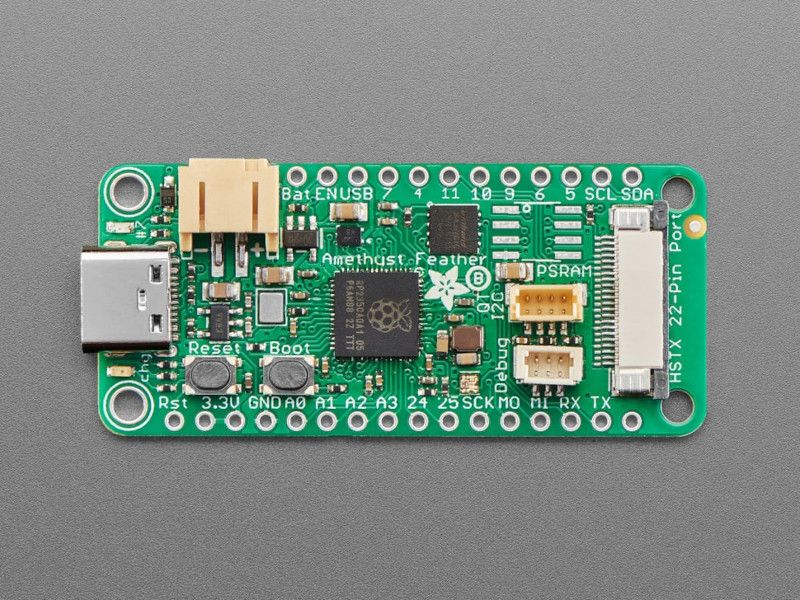
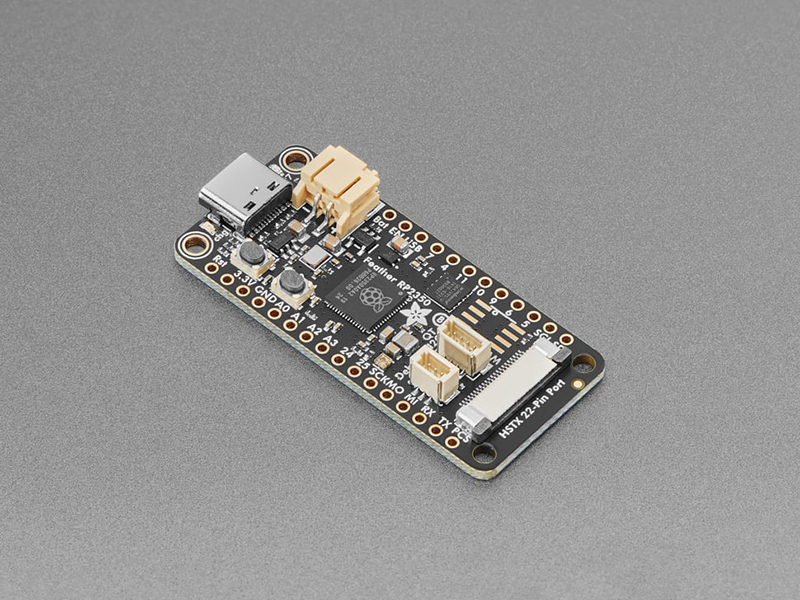
updating feather rp2350
updating feather rp2350 with full product copy and shop image

diff --git a/_board/adafruit_feather_rp2350.md b/_board/adafruit_feather_rp2350.md
@@ -19,6 +19,64 @@ features:
 
 ---
 
-RP2350 flies high with the Feather format - now you can use any FeatherWings with this battery-powered dev board. It comes with 8MB of flash, 22pin HSTX output port, Stemma QT, debug SWD, and optional PSRAM spot.
+RP2350 flies high with the Feather format - now you can use any FeatherWings with this battery-powered dev board. It comes with 8MB of flash, 22pin HSTX output port, Stemma QT, debug SWD, and optional PSRAM spot. It's our first RP2350 board and we crammed a ton of goodies into our classic Feather format. It's an excellent starter board to go along with your Pico 2.
 
-(more soooon!)
+The RP2350 is Raspberry Pi's second microcontroller chip following their breakout-hit the RP2040. Building on their success, the RP2350 upgrades the dual M0 core to dual M33 cores with 150 MHz clock rate. The M33 is a much newer Arm chipset, we've found that firmware runs about twice as fast. Especially given that we now have hardware floating point support. Also, the RP2350 has twice as much SRAM: 520KB instead of 264KB which means that micropython/circuitpython runs great and also IoT projects that need a lot of memory buffer space will run better. Other improvements include, 3 PIO blocks instead of 2, TrustZone secure boot, and a special High Speed Transmit (HSTX) peripheral that drives 4 lanes of differential data transmission such as DVI output without needing to overclock or use PIO.
+
+For peripherals, there are two I2C controllers, two SPI controllers, and two UARTs that are multiplexed across the GPIO - check the pinout for what pins can be set to which. There are 24 PWM channels, each pin has a channel it can be set to (ditto on the pinout).
+
+Feather RP2350 HSTX Specifications:
+
+* Measures 2.0" x 0.9" x 0.28" (50.8mm x 22.8mm x 7mm) without headers soldered in
+* Light as a (large?) feather - 5 grams
+* RP2350 32-bit Cortex M33 dual core running at 150 MHz @ 3.3V logic and power
+* 520 KB RAM + 8 KB OTP memory
+* 8 MB SPI FLASH chip for storing files and CircuitPython/MicroPython code storage. No EEPROM
+* Optional spot for SOIC PSRAM chip with chip select line on GPIO 8
+* Tons of GPIO! 29 x GPIO pins with following capabilities:
+	* 21 GPIO available on the Feather header pins, 8 more 'consecutive' GPIO available on the HSTX connector (you don't have to use them with the HSTX peripheral) 
+	* Four 12-bit ADCs (one more than Pico 2)
+	* Two I2C, Two SPI, and two UART peripherals, we label one for the 'main' interface in standard Feather locations
+	* 24 x PWM outputs - for servos, LEDs, etc
+* Built-in 200mA+ lipoly charger with charging status indicator LED. For non-rechargeable battery usage the charger can be disabled by cutting a jumper trace on the back.
+* Pin #7 red LED for general purpose blinking
+* RGB NeoPixel for full-color indication.
+* On-board STEMMA QT connector that lets you quickly connect any Qwiic, STEMMA QT or Grove I2C devices with no soldering!
+* Both Reset button and Bootloader select button for quick restarts (no unplugging-replugging to relaunch code)
+* 3.3V Power/enable pin
+* Pico Probe 3-pin JST SH connector for SWD debugging
+* 4 mounting holes
+* 12 MHz crystal for perfect timing.
+* 3.3V regulator with 500mA peak current output
+* USB Type C connector lets you access built-in ROM USB bootloader and serial port debugging
+
+Inside the RP2350 is a 'permanent ROM' USB UF2 bootloader. What that means is when you want to program new firmware, you can hold down the BOOTSEL button while plugging it into USB (or pulling down the RUN/Reset pin to ground) and it will appear as a USB disk drive you can drag the firmware onto. Folks who have been using Adafruit products will find this very familiar - we use the technique on all our native-USB boards. Just note you don't double-click reset instead hold down BOOTSEL during boot to enter the bootloader!
+
+There is great C/C++ support, unofficial (but really good) Arduino support, an official MicroPython port, and a CircuitPython port! We of course recommend CircuitPython because we think it's the easiest way to get started and it has support with most of our drivers, displays, sensors, and more, supported out of the box so you can follow along with our CircuitPython projects and tutorials.
+
+While the RP2350 has lots of onboard RAM, it does not have built-in FLASH memory. Instead, that is provided by the external QSPI flash chip. On this board there is 8 MB, which is shared between the program it's running and any file storage used by MicroPython or CircuitPython. When using C/C++ you get the whole flash memory, if using Python you will have about 7 MB remaining for code, files, images, fonts, etc.
+
+RP2350 Chip features:
+
+* Dual ARM Cortex-M33 with floating point unit or Dual RISC-V @ 150MHz
+* 520 kB on-chip SRAM
+* 8 kB of one-time-programmable (OTP) memory.
+* Support for up to 16MB of off-chip Flash memory via dedicated QSPI bus
+* Support for external QSPI PSRAM
+* DMA controller, 16 channel, 4 IRQ
+* Fully-connected AHB crossbar
+* On-chip switched-mode power supply and programmable low-dropout regulator (LDO) to generate core voltage
+* Two on-chip PLLs to generate 48 MHz USB and 150MHz core clocks
+* Optional boot signing with protected OTP storage
+* Hardware SHA-256 accelerator
+* Hardware random number generator (TRNG)
+* 30 GPIO pins, 4 of which can be used as analog inputs
+* Peripherals
+	* 2 UARTs
+	* 2 SPI controllers
+	* 2 I2C controllers
+	* 24 PWM channels (compared to 16 on RP2040)
+	* USB 1.1 controller and PHY, with host and device support
+	* 12 PIO state machines
+
+Please note: The Adafruit Feather RP2350 HSTX comes with the A2 version of the RP2350, which is affected by the E9 erratum. This errata affects some uses of GPIO and PIO such as high-impedance inputs and the internal pulldowns. You may need to use 8.2K or smaller resistors if pull-downs are required. At this time, Sept 9 2024, there is no other version of the RP2350 available - only the A2 version.
